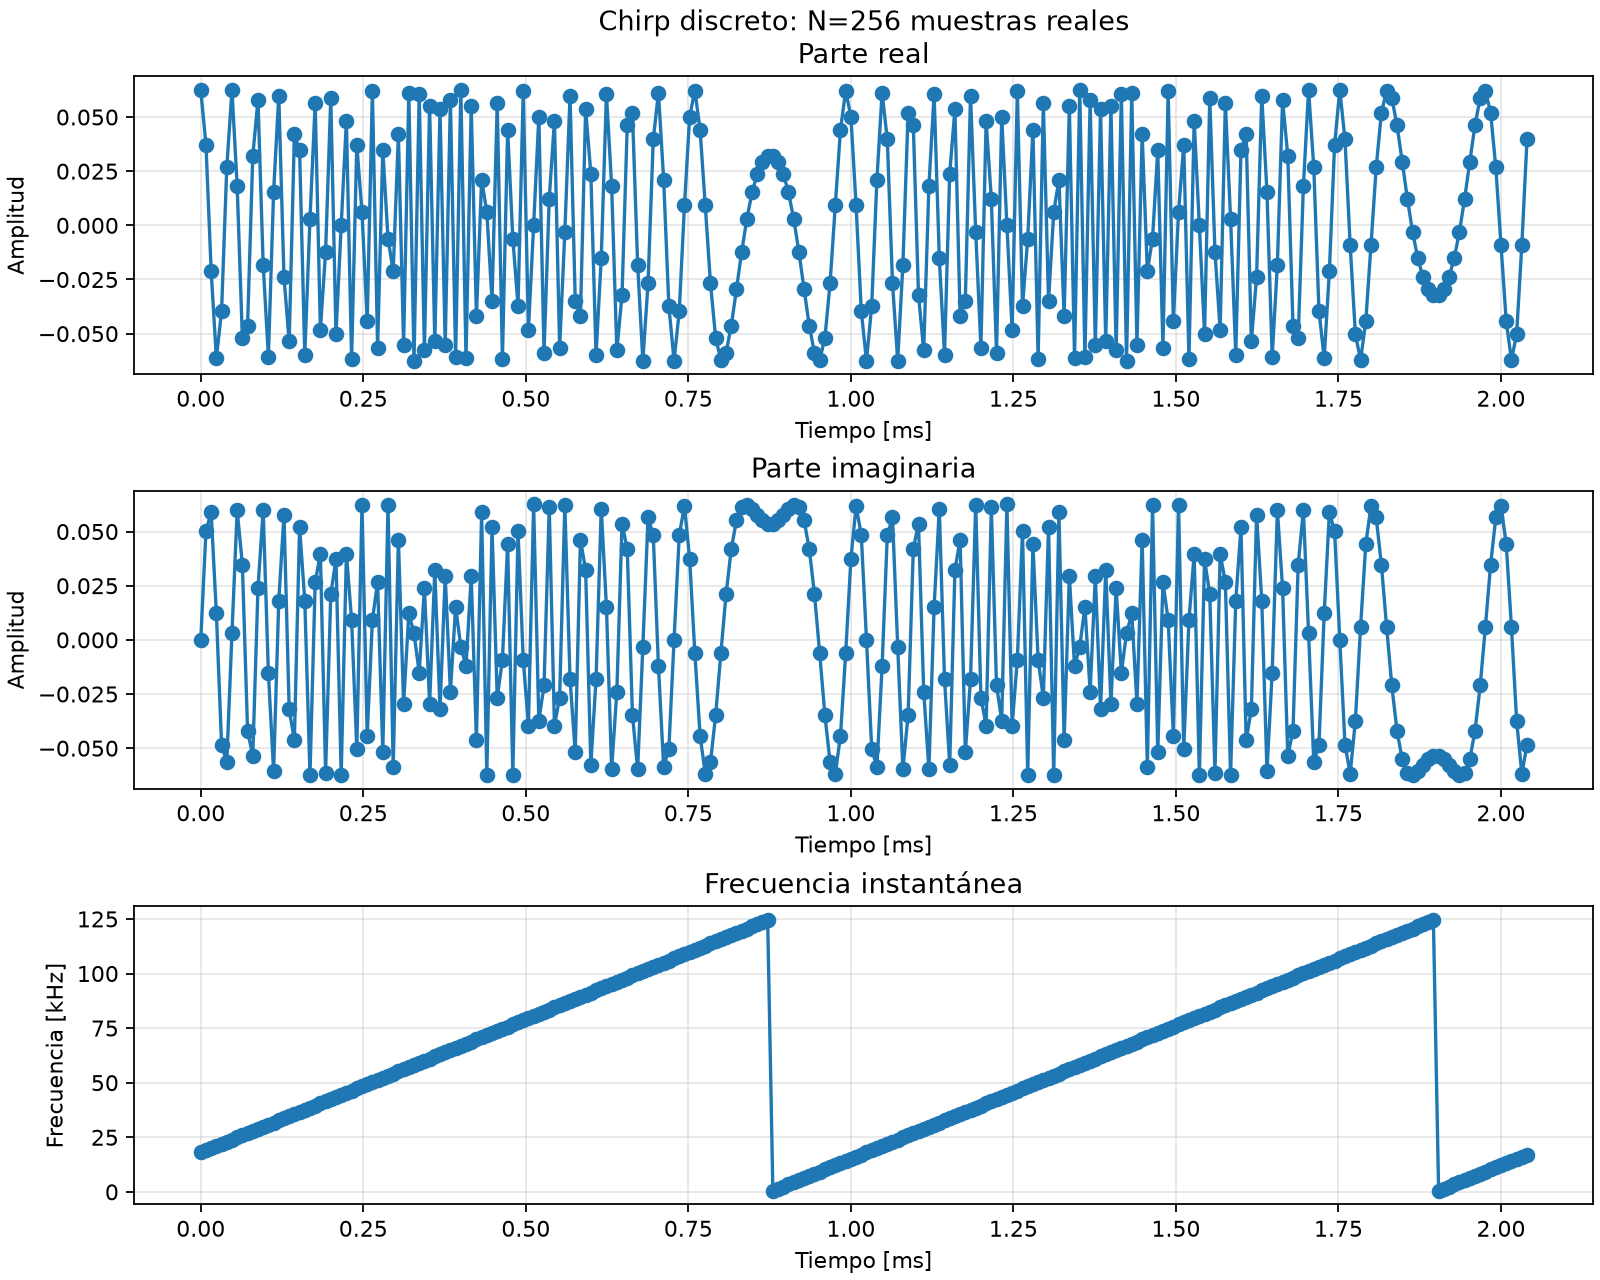
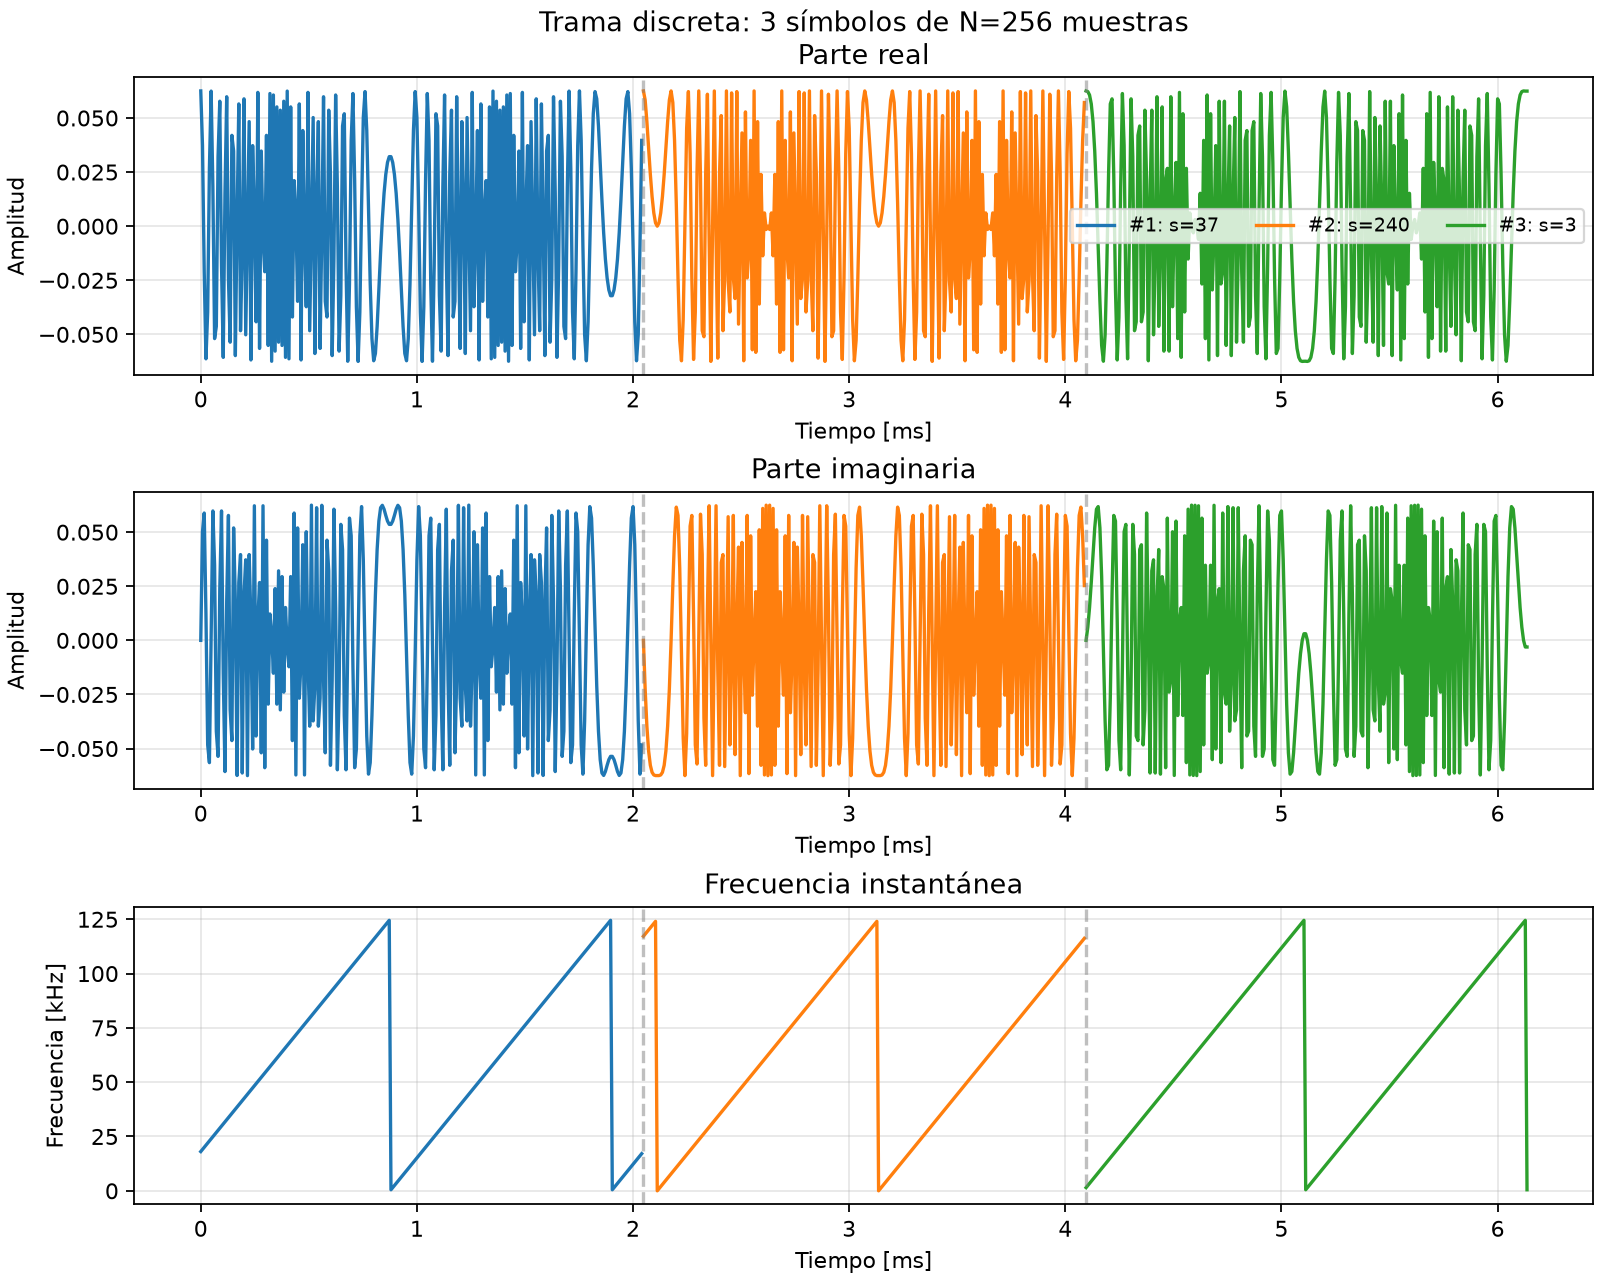
feat: enviar, mod, demod y graficar multiples simbolos

diff --git a/src/experimentacion/validar_lora_chirp.py b/src/experimentacion/validar_lora_chirp.py
@@ -4,6 +4,7 @@ Ejecutar directamente con:
     python src/experimentacion/validar_lora_chirp.py
 """
 
+from collections.abc import Sequence
 from pathlib import Path
 import sys
 
@@ -53,24 +54,28 @@ def _vista_teorica_chirp(
 
 
 def _guardar_vista_chirp(
-    tiempo: MuestrasReales,
-    real: MuestrasReales,
-    imaginaria: MuestrasReales,
-    frecuencia: MuestrasReales,
+    vistas: Sequence[tuple[MuestrasReales, MuestrasReales, MuestrasReales, MuestrasReales]],
+    etiquetas: Sequence[str],
+    limites_ms: MuestrasReales,
     nombre: str,
     descripcion: str,
     estilo: str,
 ) -> Path:
-    """Guarda una sola representación del chirp para no mezclar conceptos."""
+    """Guarda en una figura las vistas de todos los símbolos de una trama."""
     fig, axes = plt.subplots(3, 1, figsize=(10, 8), constrained_layout=True)
-    axes[0].plot(tiempo * 1e3, real, estilo)
+    for (tiempo, real, imaginaria, frecuencia), etiqueta in zip(vistas, etiquetas):
+        axes[0].plot(tiempo * 1e3, real, estilo, label=etiqueta)
+        axes[1].plot(tiempo * 1e3, imaginaria, estilo)
+        axes[2].plot(tiempo * 1e3, frecuencia / 1e3, estilo)
+
     axes[0].set(title=f"{descripcion}\nParte real", xlabel="Tiempo [ms]", ylabel="Amplitud")
-    axes[1].plot(tiempo * 1e3, imaginaria, estilo)
     axes[1].set(title="Parte imaginaria", xlabel="Tiempo [ms]", ylabel="Amplitud")
-    axes[2].plot(tiempo * 1e3, frecuencia / 1e3, estilo)
     axes[2].set(title="Frecuencia instantánea", xlabel="Tiempo [ms]", ylabel="Frecuencia [kHz]")
     for ax in axes:
+        for limite in limites_ms:
+            ax.axvline(limite, color="gray", linestyle="--", alpha=0.5)
         ax.grid(True, alpha=0.3)
+    axes[0].legend(ncol=min(len(etiquetas), 3), fontsize="small")
     ruta = CARPETA_GRAFICOS / nombre
     fig.savefig(ruta, dpi=160)
     plt.close(fig)
@@ -78,62 +83,85 @@ def _guardar_vista_chirp(
 
 
 def guardar_graficos(
-    chirp: ArrayLike,
-    espectro: ArrayLike,
-    enviado: int,
-    estimado: int,
+    chirps: Sequence[ArrayLike],
+    espectros: Sequence[ArrayLike],
+    enviados: Sequence[int],
+    estimados: Sequence[int],
     ancho_banda: float = ANCHO_BANDA,
     muestras_por_muestra: int = 16,
 ) -> tuple[Path, Path, Path]:
-    """Guarda por separado la señal discreta y su modelo teórico suavizado.
+    """Guarda una trama de símbolos en gráficos temporales y espectrales comunes.
 
-    ``chirp_muestras_discretas.png`` contiene sólo las ``N`` muestras que salen
-    del modulador y que efectivamente se transmiten. ``chirp_teorico.png`` no
-    agrega muestras a la simulación: muestra el modelo continuo entre ellas
-    para hacer visible la rampa de frecuencia. Se guardan en archivos distintos
-    para no confundir la curva explicativa con una señal real de mayor resolución.
+    Todos los símbolos aparecen uno después de otro en el mismo eje temporal.
+    Las líneas verticales grises marcan dónde termina cada símbolo. La figura
+    discreta contiene sólo las ``N`` muestras que se transmiten por símbolo;
+    la teórica dibuja el modelo continuo entre ellas. El espectro superpone una
+    curva por cada recepción para comparar los bins detectados.
 
     ``muestras_por_muestra`` controla sólo la densidad de la línea teórica.
     Por ejemplo, 16 produce ``16 * N + 1`` puntos para verla suave.
     """
     CARPETA_GRAFICOS.mkdir(exist_ok=True)
-    chirp = np.asarray(chirp)
-    N = len(chirp)
+    if not chirps:
+        raise ValueError("debe haber al menos un chirp para graficar")
+    if not (len(chirps) == len(espectros) == len(enviados) == len(estimados)):
+        raise ValueError("chirps, espectros, enviados y estimados deben tener la misma longitud")
+
+    chirps = [np.asarray(chirp) for chirp in chirps]
+    espectros = [np.asarray(espectro) for espectro in espectros]
+    N = len(chirps[0])
+    if any(len(chirp) != N for chirp in chirps) or any(len(espectro) != N for espectro in espectros):
+        raise ValueError("todos los chirps y espectros deben tener N muestras")
+
     k = np.arange(N)
+    duracion_simbolo = N / ancho_banda
+    limites_ms = np.arange(1, len(chirps)) * duracion_simbolo * 1e3
+    etiquetas = [f"#{indice}: s={enviado}" for indice, enviado in enumerate(enviados, start=1)]
 
-    # La vista discreta usa la salida del modulador, no una reconstrucción.
-    tiempo_discreto = k / ancho_banda
-    frecuencia_discreta = np.mod(enviado + 2 * k, N) * ancho_banda / N
+    # Cada vista se desplaza Ts para que toda la trama quede en un único gráfico.
+    vistas_discretas = []
+    vistas_teoricas = []
+    for indice, (chirp, enviado) in enumerate(zip(chirps, enviados)):
+        desplazamiento = indice * duracion_simbolo
+        tiempo_discreto = desplazamiento + k / ancho_banda
+        frecuencia_discreta = np.mod(enviado + 2 * k, N) * ancho_banda / N
+        vistas_discretas.append(
+            (tiempo_discreto, chirp.real, chirp.imag, frecuencia_discreta)
+        )
+
+        tiempo, real, imaginaria, frecuencia = _vista_teorica_chirp(
+            enviado, N, ancho_banda, muestras_por_muestra
+        )
+        vistas_teoricas.append((desplazamiento + tiempo, real, imaginaria, frecuencia))
+
     ruta_muestras = _guardar_vista_chirp(
-        tiempo_discreto,
-        chirp.real,
-        chirp.imag,
-        frecuencia_discreta,
+        vistas_discretas,
+        etiquetas,
+        limites_ms,
         "chirp_muestras_discretas.png",
-        f"Chirp discreto: N={N} muestras reales",
-        "o-",
+        f"Trama discreta: {len(chirps)} símbolos de N={N} muestras",
+        "-",
     )
 
-    # La vista teórica se mantiene aquí —junto al código de gráficos— porque
-    # no forma parte de la cadena de transmisión ni de la decisión por FFT.
-    tiempo, real, imaginaria, frecuencia = _vista_teorica_chirp(
-        enviado, N, ancho_banda, muestras_por_muestra
-    )
     ruta_teorico = _guardar_vista_chirp(
-        tiempo,
-        real,
-        imaginaria,
-        frecuencia,
+        vistas_teoricas,
+        etiquetas,
+        limites_ms,
         "chirp_teorico.png",
-        f"Modelo teórico del chirp ({muestras_por_muestra}× más puntos)",
+        f"Modelo teórico: {len(chirps)} símbolos ({muestras_por_muestra}× más puntos)",
         "-",
     )
 
     fig, ax = plt.subplots(figsize=(10, 4), constrained_layout=True)
-    ax.stem(np.arange(len(espectro)), np.abs(espectro) ** 2, basefmt=" ")
-    ax.axvline(enviado, color="tab:green", linestyle="--", label=f"enviado: s={enviado}")
-    ax.axvline(estimado, color="tab:red", linestyle=":", label=f"detectado: s={estimado}")
-    ax.set(title="Espectro después del dechirp", xlabel="Bin de la FFT", ylabel="Energía")
+    for indice, (espectro, enviado, estimado) in enumerate(zip(espectros, enviados, estimados), start=1):
+        energia = np.abs(espectro) ** 2
+        linea, = ax.plot(
+            np.arange(N), energia, label=f"#{indice}: enviado s={enviado}, FFT={estimado}"
+        )
+        ax.axvline(enviado, color=linea.get_color(), linestyle="--", alpha=0.6)
+        ax.plot(estimado, energia[estimado], "x", color=linea.get_color(), markersize=8)
+    ax.set(title="Espectros después del dechirp", xlabel="Bin de la FFT", ylabel="Energía")
+    ax.set_xlim(-1, N)
     ax.grid(True, alpha=0.3)
     ax.legend()
     ruta_espectro = CARPETA_GRAFICOS / "espectro_dechirp.png"
@@ -143,22 +171,27 @@ def guardar_graficos(
 
 
 def main() -> None:
-    bits = "00100101"
-    sf = validar_simbolos([bits])
+    # Agregá o quitá palabras binarias aquí para simular una trama más corta o larga.
+    simbolos = ["00100101", "11110000", "00000011"]
+    sf = validar_simbolos(simbolos)
     N = 2**sf
-    enviado = int(bits, 2)
-    chirp = modular_simbolo(enviado, np.arange(N), N)
+    enviados = [int(bits, 2) for bits in simbolos]
+    chirps = [modular_simbolo(enviado, np.arange(N), N) for enviado in enviados]
 
-    potencia_senal = np.mean(np.abs(chirp) ** 2)
+    potencia_senal = np.mean(np.abs(chirps[0]) ** 2)
     _, sigma = parametros_ruido_desde_snr(10, potencia_senal)
-    recibida, _ = agregar_ruido_awgn(chirp, sigma, np.random.default_rng(2026))
-    estimado, _, espectro = demodular_simbolo(recibida)
+    generador = np.random.default_rng(2026)
+    recibidas = [agregar_ruido_awgn(chirp, sigma, generador)[0] for chirp in chirps]
+    resultados = [demodular_simbolo(recibida) for recibida in recibidas]
+    estimados = [resultado[0] for resultado in resultados]
+    espectros = [resultado[2] for resultado in resultados]
 
-    assert estimado == enviado
+    assert estimados == enviados
     ruta_muestras, ruta_teorico, ruta_espectro = guardar_graficos(
-        chirp, espectro, enviado, estimado
+        chirps, espectros, enviados, estimados
     )
-    print(f"Enviado: {bits} (s={enviado}); detectado: s={estimado}")
+    for bits, enviado, estimado in zip(simbolos, enviados, estimados):
+        print(f"Enviado: {bits} (s={enviado}); detectado: s={estimado}")
     print(f"Gráficos guardados en: {ruta_muestras}, {ruta_teorico} y {ruta_espectro}")
 
 

diff --git a/README.md b/README.md
@@ -37,3 +37,7 @@ Para ejecutar la comprobación experimental de la cadena LoRa:
 ```bash
 python src/experimentacion/validar_lora_chirp.py
 ```
+
+La variable `simbolos` en ese archivo admite una trama de hasta cinco palabras
+binarias de igual longitud. Cada símbolo se dibuja consecutivamente en las
+mismas figuras temporal, teórica y espectral.
